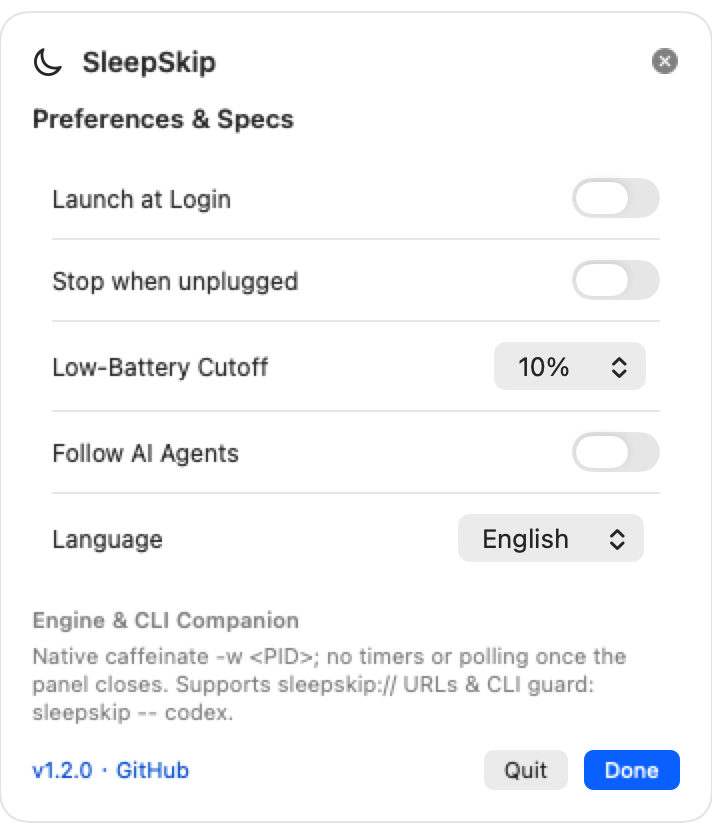
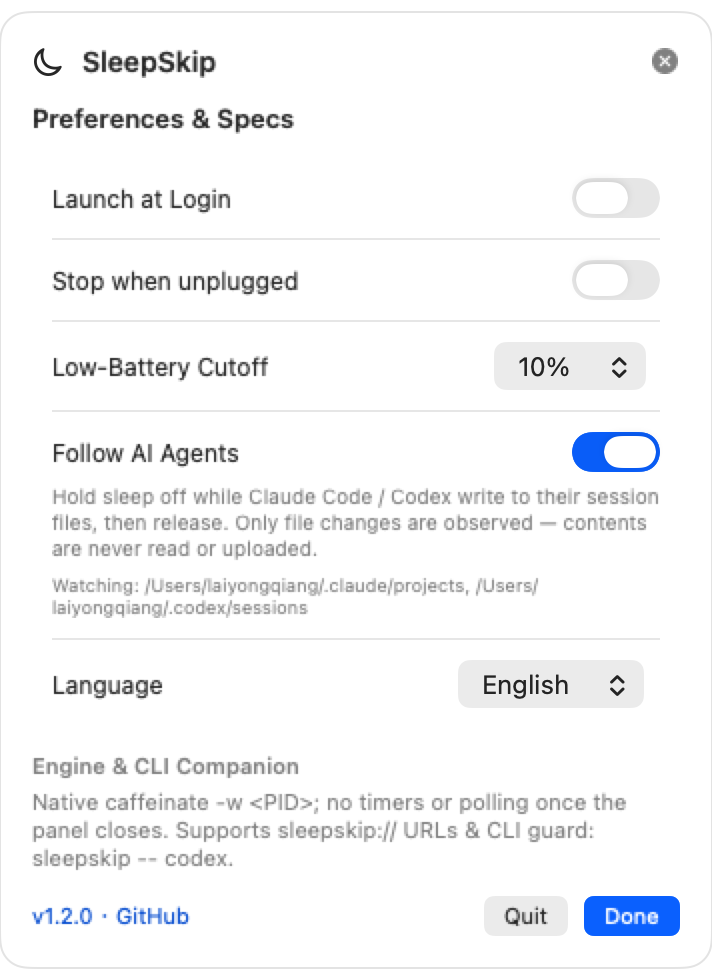
feat: auto-follow on by default, so the app works without configuration
Zero-configuration is the product's headline promise, but the switch shipped
off, which made it a lie: users had to find Preferences and turn it on first.

Auto-follow now defaults on. The privacy concern that drove the original
default is handled by disclosure instead of an opt-in gate:

- A first-run notice in the panel names the exact folders being watched, states
  that contents are never read or uploaded, and says where to turn it off.
  It retires once the panel is closed, so it never nags.
- Preferences lists the concrete paths currently being watched.
- When no supported agent directory exists, the row says so in orange instead
  of silently doing nothing.

Anyone who has ever flipped the switch keeps their stored choice, so an
explicit opt-out is never overridden by the new default.

Verified on a clean install: no settings touched, writing to
~/.claude/projects made the app hold a caffeinate assertion on its own.

diff --git a/Sources/SleepSkip/PopoverViews.swift b/Sources/SleepSkip/PopoverViews.swift
@@ -21,6 +21,10 @@ struct SleepSkipPopoverView: View {
                 cliBanner(cli)
             }
 
+            if manager.showAutoFollowNotice {
+                autoFollowNotice
+            }
+
             if manager.showSettings {
                 settingsContent
             } else if manager.isRunning {
@@ -111,6 +115,41 @@ struct SleepSkipPopoverView: View {
         .overlay(
             RoundedRectangle(cornerRadius: 8, style: .continuous)
                 .stroke(Color.red.opacity(0.25), lineWidth: 1)
+        )
+    }
+
+    /// Shown once, on first launch, because auto-follow is on by default and watches a folder.
+    /// Telling the user up front is what makes "works without configuration" honest.
+    private var autoFollowNotice: some View {
+        VStack(alignment: .leading, spacing: 6) {
+            HStack(spacing: 6) {
+                Image(systemName: "sparkles")
+                    .font(.system(size: 11))
+                    .foregroundColor(.accentColor)
+                Text(t.autoFollowNoticeTitle)
+                    .font(.system(size: 11, weight: .semibold))
+                Spacer()
+                Button(action: { manager.dismissAutoFollowNotice() }) {
+                    Image(systemName: "xmark")
+                        .font(.system(size: 9, weight: .semibold))
+                        .foregroundColor(.secondary)
+                }
+                .buttonStyle(PlainButtonStyle())
+            }
+            Text(t.autoFollowNoticeBody)
+                .font(.system(size: 10))
+                .foregroundColor(.secondary)
+                .fixedSize(horizontal: false, vertical: true)
+        }
+        .padding(.horizontal, 10)
+        .padding(.vertical, 8)
+        .background(
+            RoundedRectangle(cornerRadius: 8, style: .continuous)
+                .fill(Color.accentColor.opacity(0.08))
+        )
+        .overlay(
+            RoundedRectangle(cornerRadius: 8, style: .continuous)
+                .stroke(Color.accentColor.opacity(0.2), lineWidth: 1)
         )
     }
 
@@ -648,10 +687,28 @@ struct SleepSkipPopoverView: View {
             }
 
             if manager.config.autoFollowAgents {
-                Text(t.autoFollowDetail)
-                    .font(.system(size: 10))
-                    .foregroundColor(.secondary)
-                    .fixedSize(horizontal: false, vertical: true)
+                if manager.agentSources.isEmpty {
+                    // Honest state: the switch is on but there is nothing to watch.
+                    HStack(spacing: 6) {
+                        Image(systemName: "questionmark.folder")
+                            .font(.system(size: 10))
+                            .foregroundColor(.orange)
+                        Text(t.autoFollowUnavailable)
+                            .font(.system(size: 10))
+                            .foregroundColor(.orange)
+                    }
+                } else {
+                    Text(t.autoFollowDetail)
+                        .font(.system(size: 10))
+                        .foregroundColor(.secondary)
+                        .fixedSize(horizontal: false, vertical: true)
+
+                    Text("\(t.autoFollowWatching): \(manager.agentSources.map(\.path).joined(separator: ", "))")
+                        .font(.system(size: 9))
+                        .foregroundColor(.secondary)
+                        .lineLimit(2)
+                        .truncationMode(.middle)
+                }
 
                 if manager.autoFollowLimitReached {
                     HStack(spacing: 6) {

diff --git a/Sources/SleepSkipCore/SessionManager.swift b/Sources/SleepSkipCore/SessionManager.swift
@@ -70,6 +70,12 @@ public final class SessionManager: ObservableObject {
     /// immediately wake itself again. Cleared once all agents have gone quiet.
     private var autoFollowSuppressed = false
 
+    /// First-run explanation of what auto-follow watches. Shown once, then never again.
+    @Published public var showAutoFollowNotice: Bool = false
+    /// Directories that actually exist on this machine, for display. Empty means the switch has
+    /// nothing to watch.
+    @Published public var agentSources: [AgentSource] = []
+
     private let store: PreferencesStore
     private let caffeinateRunner: CaffeinateRunning
     private let backpackGuard: BackpackGuarding
@@ -85,6 +91,8 @@ public final class SessionManager: ObservableObject {
     public var onRequestClosePopover: (() -> Void)?
     /// Called when auto-follow starts or stops so the host can start/stop the FSEvents monitor.
     public var onAutoFollowToggled: ((_ enabled: Bool) -> Void)?
+    /// Called when the first-run notice is dismissed so the host can persist that fact.
+    public var onAutoFollowNoticeDismissed: (() -> Void)?
 
     public var l10n: L10n {
         L10n(language: config.language)
@@ -98,6 +106,27 @@ public final class SessionManager: ObservableObject {
         config.autoFollowAgents
     }
 
+    /// Surfaces the one-time notice. Called at launch when the setting is on and the user has
+    /// not dismissed it yet.
+    public func presentAutoFollowNoticeIfNeeded(hasDismissed: Bool) {
+        showAutoFollowNotice = config.autoFollowAgents && !hasDismissed
+    }
+
+    public func setAgentSources(_ sources: [AgentSource]) {
+        agentSources = sources
+    }
+
+    public func dismissAutoFollowNotice() {
+        showAutoFollowNotice = false
+        onAutoFollowNoticeDismissed?()
+    }
+
+    /// Called when the panel closes. A notice the user has already seen should not reappear.
+    public func retireAutoFollowNoticeOnPanelClose() {
+        guard showAutoFollowNotice else { return }
+        dismissAutoFollowNotice()
+    }
+
     /// Starts or stops watching for agent activity. The monitor itself is owned by the host
     /// so the core stays free of FSEvents; this only flips the preference and notifies.
     public func setAutoFollowEnabled(_ enabled: Bool) {
@@ -107,6 +136,7 @@ public final class SessionManager: ObservableObject {
         persistConfig()
         if !enabled {
             endAutoFollow()
+            showAutoFollowNotice = false
         }
         onAutoFollowToggled?(enabled)
         onStateChange?(isEffectivelyActive, activeClosedLid)

diff --git a/Sources/SleepSkipCore/PreferencesStore.swift b/Sources/SleepSkipCore/PreferencesStore.swift
@@ -12,6 +12,7 @@ public final class PreferencesStore {
         static let autoFollowAgents = "sleepskip.autoFollowAgents"
         static let language = "sleepskip.language"
         static let hasShownOnboarding = "sleepskip.hasShownOnboarding"
+        static let hasSeenAutoFollowNotice = "sleepskip.hasSeenAutoFollowNotice"
         static let didMigrateFromSleepGuard = "sleepskip.didMigrateFromSleepGuard"
 
         /// Key names used by SleepGuard before the 1.2.0 rename.
@@ -65,6 +66,11 @@ public final class PreferencesStore {
         set { defaults.set(newValue, forKey: Keys.hasShownOnboarding) }
     }
 
+    public var hasSeenAutoFollowNotice: Bool {
+        get { defaults.bool(forKey: Keys.hasSeenAutoFollowNotice) }
+        set { defaults.set(newValue, forKey: Keys.hasSeenAutoFollowNotice) }
+    }
+
     public func load() -> SessionConfig {
         let modeRaw = defaults.string(forKey: Keys.mode) ?? GuardMode.background.rawValue
         let mode = GuardMode(rawValue: modeRaw) ?? .background
@@ -112,11 +118,13 @@ public final class PreferencesStore {
             stopOnUnplug = false
         }
 
+        // On by default: the product promise is that the app works without being configured.
+        // Anyone who has ever flipped the switch has a stored value and keeps their choice.
         let autoFollowAgents: Bool
         if defaults.object(forKey: Keys.autoFollowAgents) != nil {
             autoFollowAgents = defaults.bool(forKey: Keys.autoFollowAgents)
         } else {
-            autoFollowAgents = false
+            autoFollowAgents = true
         }
 
         let langRaw = defaults.string(forKey: Keys.language) ?? AppLanguage.system.rawValue

diff --git a/Sources/SleepSkipCore/L10n.swift b/Sources/SleepSkipCore/L10n.swift
@@ -151,6 +151,12 @@ public struct L10n {
             : "Hold sleep off while Claude Code / Codex write to their session files, then release. Only file changes are observed — contents are never read or uploaded."
     }
     public var autoFollowWatching: String { isZh ? "监听目录" : "Watching" }
+    public var autoFollowNoticeTitle: String { isZh ? "已开启自动跟随" : "Auto-follow is on" }
+    public var autoFollowNoticeBody: String {
+        isZh
+            ? "Claude Code / Codex 开始干活时自动保持唤醒，停下后自动释放。只监听 ~/.claude/projects 和 ~/.codex/sessions 里文件有没有变化，不读取内容、不上传任何数据。可在偏好设置里关闭。"
+            : "SleepSkip keeps your Mac awake while Claude Code / Codex work, then releases on its own. It only watches whether files under ~/.claude/projects and ~/.codex/sessions change — contents are never read or uploaded. Turn it off in Preferences."
+    }
     public var autoFollowUnavailable: String {
         isZh ? "未检测到支持的 Agent 目录" : "No supported agent directory found"
     }

diff --git a/Sources/SleepSkip/AppDelegate.swift b/Sources/SleepSkip/AppDelegate.swift
@@ -65,6 +65,11 @@ final class AppDelegate: NSObject, NSApplicationDelegate, NSPopoverDelegate {
         sessionManager.onAutoFollowToggled = { [weak self] enabled in
             self?.applyAutoFollow(enabled)
         }
+        sessionManager.onAutoFollowNoticeDismissed = { [weak self] in
+            self?.store.hasSeenAutoFollowNotice = true
+        }
+        sessionManager.setAgentSources(availableAgentSources)
+        sessionManager.presentAutoFollowNoticeIfNeeded(hasDismissed: store.hasSeenAutoFollowNotice)
         if sessionManager.isAutoFollowEnabled {
             applyAutoFollow(true)
         }
@@ -422,6 +427,8 @@ final class AppDelegate: NSObject, NSApplicationDelegate, NSPopoverDelegate {
 
     func popoverDidClose(_ notification: Notification) {
         stopDisplayTimer()
+        // The first-run notice has been shown; do not bring it back on the next open.
+        sessionManager.retireAutoFollowNoticeOnPanelClose()
     }
 
     private func startDisplayTimer() {

diff --git a/scripts/render_screenshots.swift b/scripts/render_screenshots.swift
@@ -106,6 +106,9 @@ struct ScreenshotRenderer {
             outPath: "\(outDir)/preview-running-dark.png"
         )
 
+        // Show the state a real user sees: sources discovered, auto-follow on.
+        manager.setAgentSources(AgentSource.defaults())
+        manager.config.autoFollowAgents = true
         manager.showSettings = true
         manager.isRunning = false
         render(
@@ -136,6 +139,9 @@ struct ScreenshotRenderer {
         )
 
         manager.isRunning = false
+        // Show the state a real user sees: sources discovered, auto-follow on.
+        manager.setAgentSources(AgentSource.defaults())
+        manager.config.autoFollowAgents = true
         manager.showSettings = true
         render(
             view: SleepSkipPopoverView(manager: manager),

diff --git a/Tests/SleepSkipTests/SleepSkipCoreTests.swift b/Tests/SleepSkipTests/SleepSkipCoreTests.swift
@@ -248,7 +248,7 @@ final class SleepSkipCoreTests: XCTestCase {
         XCTAssertEqual(initial.lockOnStart, true)
         XCTAssertEqual(initial.allowClosedLid, false)
         XCTAssertEqual(initial.stopOnUnplug, false)
-        XCTAssertEqual(initial.autoFollowAgents, false)
+        XCTAssertEqual(initial.autoFollowAgents, true)
         XCTAssertEqual(initial.batteryThresholdPercent, 10)
 
         var updated = initial
@@ -258,7 +258,7 @@ final class SleepSkipCoreTests: XCTestCase {
         updated.lockOnStart = false
         updated.allowClosedLid = true
         updated.stopOnUnplug = true
-        updated.autoFollowAgents = true
+        updated.autoFollowAgents = false
         updated.language = .en
         store.save(updated)
 

diff --git a/Sources/SleepSkipCore/GuardMode.swift b/Sources/SleepSkipCore/GuardMode.swift
@@ -65,7 +65,7 @@ public struct SessionConfig: Equatable, Sendable {
         allowClosedLid: Bool = false,
         batteryThresholdPercent: Int = 10,
         stopOnUnplug: Bool = false,
-        autoFollowAgents: Bool = false,
+        autoFollowAgents: Bool = true,
         language: AppLanguage = .system
     ) {
         self.mode = mode

diff --git a/README.md b/README.md
@@ -33,7 +33,7 @@ SleepSkip is built around first principles:
   - **Keep Display On** (`caffeinate -di`): Keeps both system and WindowServer display rendering active — the reliable native mode for **Computer Use** (`ScreenCaptureKit` / GUI agents) and presentations. *(Tip: lower screen brightness to minimum when running Computer Use unattended.)*
 - **Optional Lid-Closed Backpack Mode**: Explicit opt-in with standard macOS Touch ID / admin authorization (`pmset -a disablesleep 1`), protected by a kernel `kqueue` + `trap` watchdog that automatically restores normal sleep (`disablesleep 0`) on stop, timeout, or app termination.
 - **Event-Driven Power Protection**: Pre-flight + `IOKit.ps` `IOPSNotificationCreateRunLoopSource` callbacks for optional **Low-Battery Cutoff** (`5%`–`20%`) and **Stop When Unplugged** (zero polling), delivered via native macOS notifications only on passive stops.
-- **Auto-Follow AI Agents** (opt-in, off by default): FSEvents watches the agents' transcript folders (`~/.claude/projects`, `~/.codex/sessions`) and holds sleep off exactly while they write, releasing after a 5-minute grace period. Measured cost is **~0.2 ms of CPU per 20 seconds** with zero forced wakeups — process polling was measured at ~160 ms/30 s plus one wakeup per second, and rejected. Only file changes are observed; transcript contents are never read. A manual session always wins, and a 2-hour hard ceiling prevents an accidental all-nighter.
+- **Auto-Follow AI Agents** (on by default, one switch to turn off): FSEvents watches the agents' transcript folders (`~/.claude/projects`, `~/.codex/sessions`) and holds sleep off exactly while they write, releasing after a 5-minute grace period. Measured cost is **~0.2 ms of CPU per 20 seconds**, no more wakeups than the menu bar icon itself needs — process polling was measured at ~160 ms/30 s plus one wakeup per second, and rejected. Only file changes are observed; transcript contents are never read. A manual session always wins, and a 2-hour hard ceiling prevents an accidental all-nighter. It is on out of the box so the app works without being configured; a first-run note says exactly which folders are watched, and the switch lives in Preferences.
 
 ---
 

diff --git a/README_CN.md b/README_CN.md
@@ -30,7 +30,7 @@
   - **屏幕常亮**（`caffeinate -di`）：保持系统与桌面窗口渲染活跃，适合 **Computer Use 桌面操控**、投屏演示与日志监看。（*跑 Computer Use 时建议手动把屏幕亮度调至最低以兼顾省电*）
 - **真正在背包里可用的「合盖模式」**：默认关闭、显式勾选并经系统 Touch ID / 管理员授权执行 `pmset -a disablesleep 1`，配合内核 `kqueue` + `trap` 守护机制，停止、超时或应用崩溃退出时自动恢复 `disablesleep 0`。
 - **零轮询电源安全保护**：基于 `IOKit.ps` `IOPSNotificationCreateRunLoopSource` 事件回调（默认低于 `10%` 且未充电时自动停止；可选「拔掉电源时自动停止」；并在启动前预检避免无效授权弹窗）。仅在定时到期或电源保护触发时发送原生系统通知。
-- **自动跟随 AI Agent**（默认关闭，需手动开启）：用 FSEvents 监听 Agent 的会话目录（`~/.claude/projects`、`~/.codex/sessions`），它们写文件时保持唤醒，停笔 5 分钟后自动释放。实测开销是 **每 20 秒约 0.2 毫秒 CPU、零强制唤醒**——作为对比，进程轮询每 30 秒约 160 毫秒且每秒唤醒一次，已否决。只监听文件是否变化，从不读取内容。手动会话永远优先；单次自动会话有 2 小时硬上限，避免误挂整夜。
+- **自动跟随 AI Agent**（默认开启，可一键关闭）：用 FSEvents 监听 Agent 的会话目录（`~/.claude/projects`、`~/.codex/sessions`），它们写文件时保持唤醒，停笔 5 分钟后自动释放。实测开销是 **每 20 秒约 0.2 毫秒 CPU**，唤醒次数与菜单栏图标本身相当——作为对比，进程轮询每 30 秒约 160 毫秒且每秒唤醒一次，已否决。只监听文件是否变化，从不读取内容。手动会话永远优先；单次自动会话有 2 小时硬上限，避免误挂整夜。默认开启，装完即可用；首次打开面板会说明监听了哪两个目录，开关在偏好设置里。
 
 ---
 

diff --git a/docs/PRD.md b/docs/PRD.md
@@ -51,12 +51,12 @@ Modern macOS developers frequently run long-lived engineering and AI workflows (
 
 ---
 
-## 3.1 Auto-Follow for AI Agents (opt-in, default off)
+## 3.1 Auto-Follow for AI Agents (default on)
 
 Instead of asking the user to remember to start and stop a session, SleepSkip can hold the assertion exactly while a coding agent is working.
 
 - **Signal**: FSEvents on the agents' transcript directories (`~/.claude/projects`, `~/.codex/sessions`). Only the fact that a `.jsonl` file changed is observed — contents are never read, parsed, or transmitted.
-- **No polling**: the monitor is a kernel event stream. Measured cost: ~0.2 ms of CPU over 20 seconds while watching a live session directory, with zero forced wakeups. Process polling at 1 Hz was measured at ~160 ms/30 s plus one wakeup per second and was rejected.
+- **No polling**: the monitor is a kernel event stream. Measured cost: ~0.2 ms of CPU over 20 seconds while watching a live session directory, with no wakeups beyond what the status item already needs. Process polling at 1 Hz was measured at ~160 ms/30 s plus one wakeup per second and was rejected.
 - **Timing rules**: a write keeps the agent active for 30 s; then a 5-minute grace period covers long tool calls that produce no output; then the assertion is released.
 - **Hard ceiling**: one automatic session cannot exceed 2 hours. On hitting it, SleepSkip releases and notifies, so a chatty background process can never pin the Mac awake all night.
 - **Precedence**: a manual session always wins. Auto-follow never overrides it, never switches to Keep Display, and never enables lid-closed backpack mode — those stay explicit user actions.
